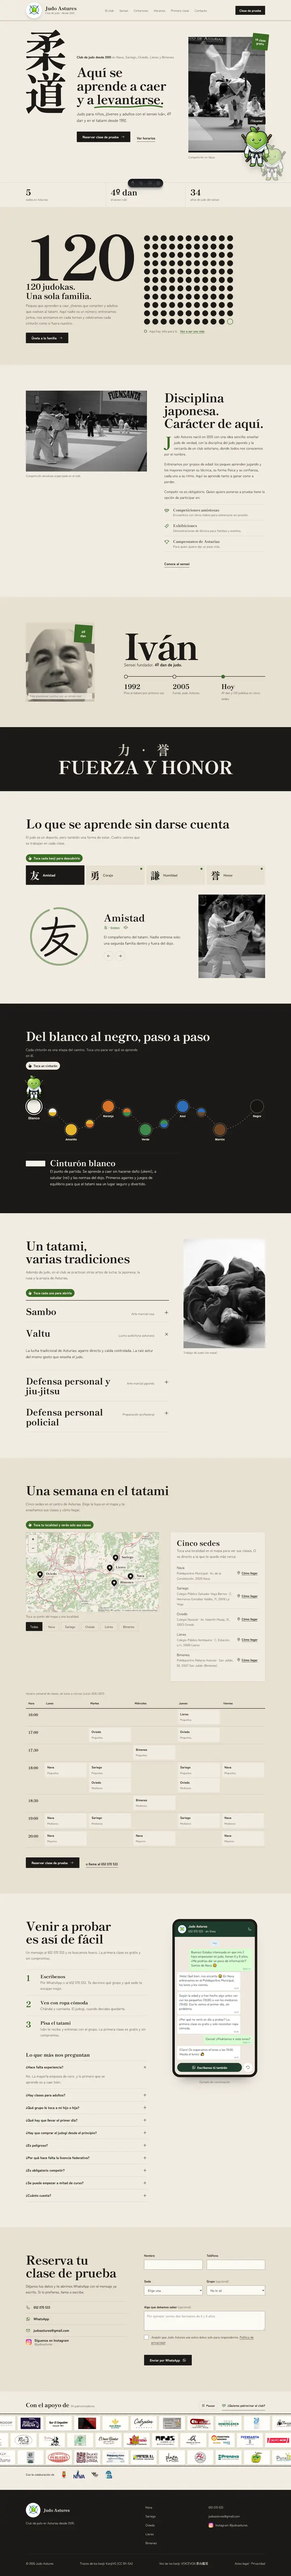
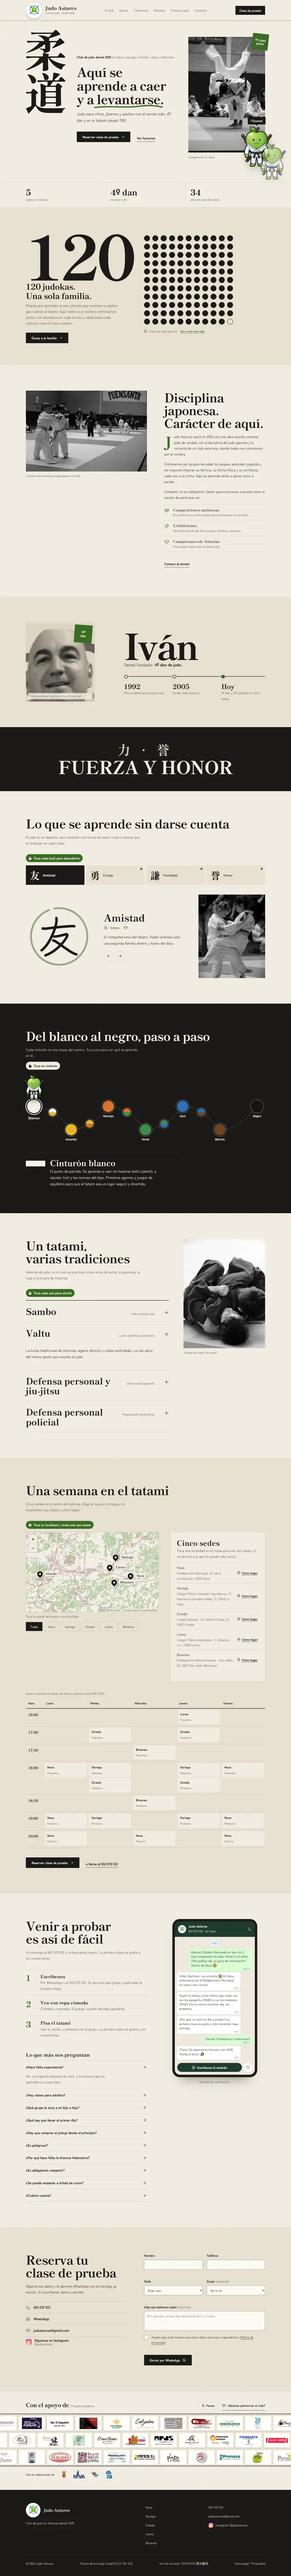
Judo Astures privado hasta su lanzamiento: solo la tarjeta, con sello y sin enlace ni página de detalles

diff --git a/src/data/contenido.ts b/src/data/contenido.ts
@@ -38,6 +38,8 @@ export interface Proyecto {
   web?: string;
   repo?: string;
   nota?: Txt;
+  /** Proyecto de cliente aún sin publicar: solo se ve la tarjeta (sin enlace ni página de detalles). */
+  privado?: boolean;
   /** Página interna del proyecto. */
   pagina: {
     rol: Txt;
@@ -49,6 +51,9 @@ export interface Proyecto {
     galeria?: { img: string; alt: Txt }[];
   };
 }
+
+/** Proyectos con página de detalles propia (los privados no la tienen). */
+export const conPagina = () => proyectos.filter((p) => !p.privado);
 
 export const proyectos: Proyecto[] = [
   {
@@ -112,7 +117,9 @@ export const proyectos: Proyecto[] = [
     img: "judo-astures.webp",
     alt: { es: "Portada de la web de Judo Astures", en: "Judo Astures home page" },
     completa: "completa/judo-astures.webp",
-    nota: { es: "Pronto en línea", en: "Coming soon" },
+    // Privado hasta que el club lance la web: para mostrarlo entero, quitar "privado" (vuelve el enlace y su página).
+    privado: true,
+    nota: { es: "Proyecto para un cliente · se publicará con su lanzamiento", en: "Client project · goes public at launch" },
     pagina: {
       rol: { es: "Proyecto freelance completo", en: "End-to-end freelance project" },
       resumen: {

diff --git a/src/styles/portfolio.css b/src/styles/portfolio.css
@@ -387,3 +387,11 @@ html.reduce .tarjeta { transition: none; }
 /* Barra de la ventana con enlace a la web real (páginas de proyecto) */
 .ventana-barra .barra-enlace { margin-left: 10px; flex: 1; min-width: 0; padding: 3px 10px; border-radius: 4px; background: var(--hundido); font: 400 11px var(--mono); color: var(--tinta); text-decoration: none; overflow: hidden; text-overflow: ellipsis; white-space: nowrap; transition: background 0.2s, color 0.2s; }
 .ventana-barra .barra-enlace:hover { background: color-mix(in srgb, var(--acento) 12%, transparent); color: var(--acento); }
+
+/* Proyecto privado (de cliente, aún sin publicar): solo la tarjeta, con un sello encima y sin enlace */
+.sello-privado {
+  position: absolute; left: 50%; bottom: 14px; translate: -50% 0; max-width: calc(100% - 28px); padding: 7px 12px; border-radius: var(--r-2);
+  background: color-mix(in srgb, var(--tinta) 88%, transparent); color: var(--fondo); font: 500 11.5px/1.4 var(--mono); text-align: center;
+  backdrop-filter: blur(6px); -webkit-backdrop-filter: blur(6px);
+}
+.es-privado .ventana-img img { filter: saturate(0.85); }

diff --git a/src/scripts/inicio.ts b/src/scripts/inicio.ts
@@ -28,7 +28,9 @@ const colocarCartas = (dur: number) => {
   orden.forEach((c, d) => gsap.to(c, { x: 0, y: 0, xPercent: -d * 5, yPercent: d * 5.5, rotate: -d * 3.5 + 2, scale: 1 - d * 0.05, zIndex: 10 - d, opacity: 1, duration: dur, ease: "expo.out" }));
   const delante = orden[0];
   nombreMazo.textContent = delante.dataset.titulo!;
-  verMazo.href = delante.dataset.ancla!;
+  // Los proyectos privados no tienen enlace: se oculta el "ver" mientras su carta está delante.
+  verMazo.hidden = !delante.dataset.ancla;
+  if (delante.dataset.ancla) verMazo.href = delante.dataset.ancla;
   // Las webs reales se abren en pestaña nueva; las páginas de detalles, en la misma.
   if (delante.dataset.externo) { verMazo.target = "_blank"; verMazo.rel = "noopener"; } else { verMazo.removeAttribute("target"); verMazo.removeAttribute("rel"); }
   if (tocado) ayuda.textContent = `${cartas.indexOf(delante) + 1} / ${cartas.length}`;
